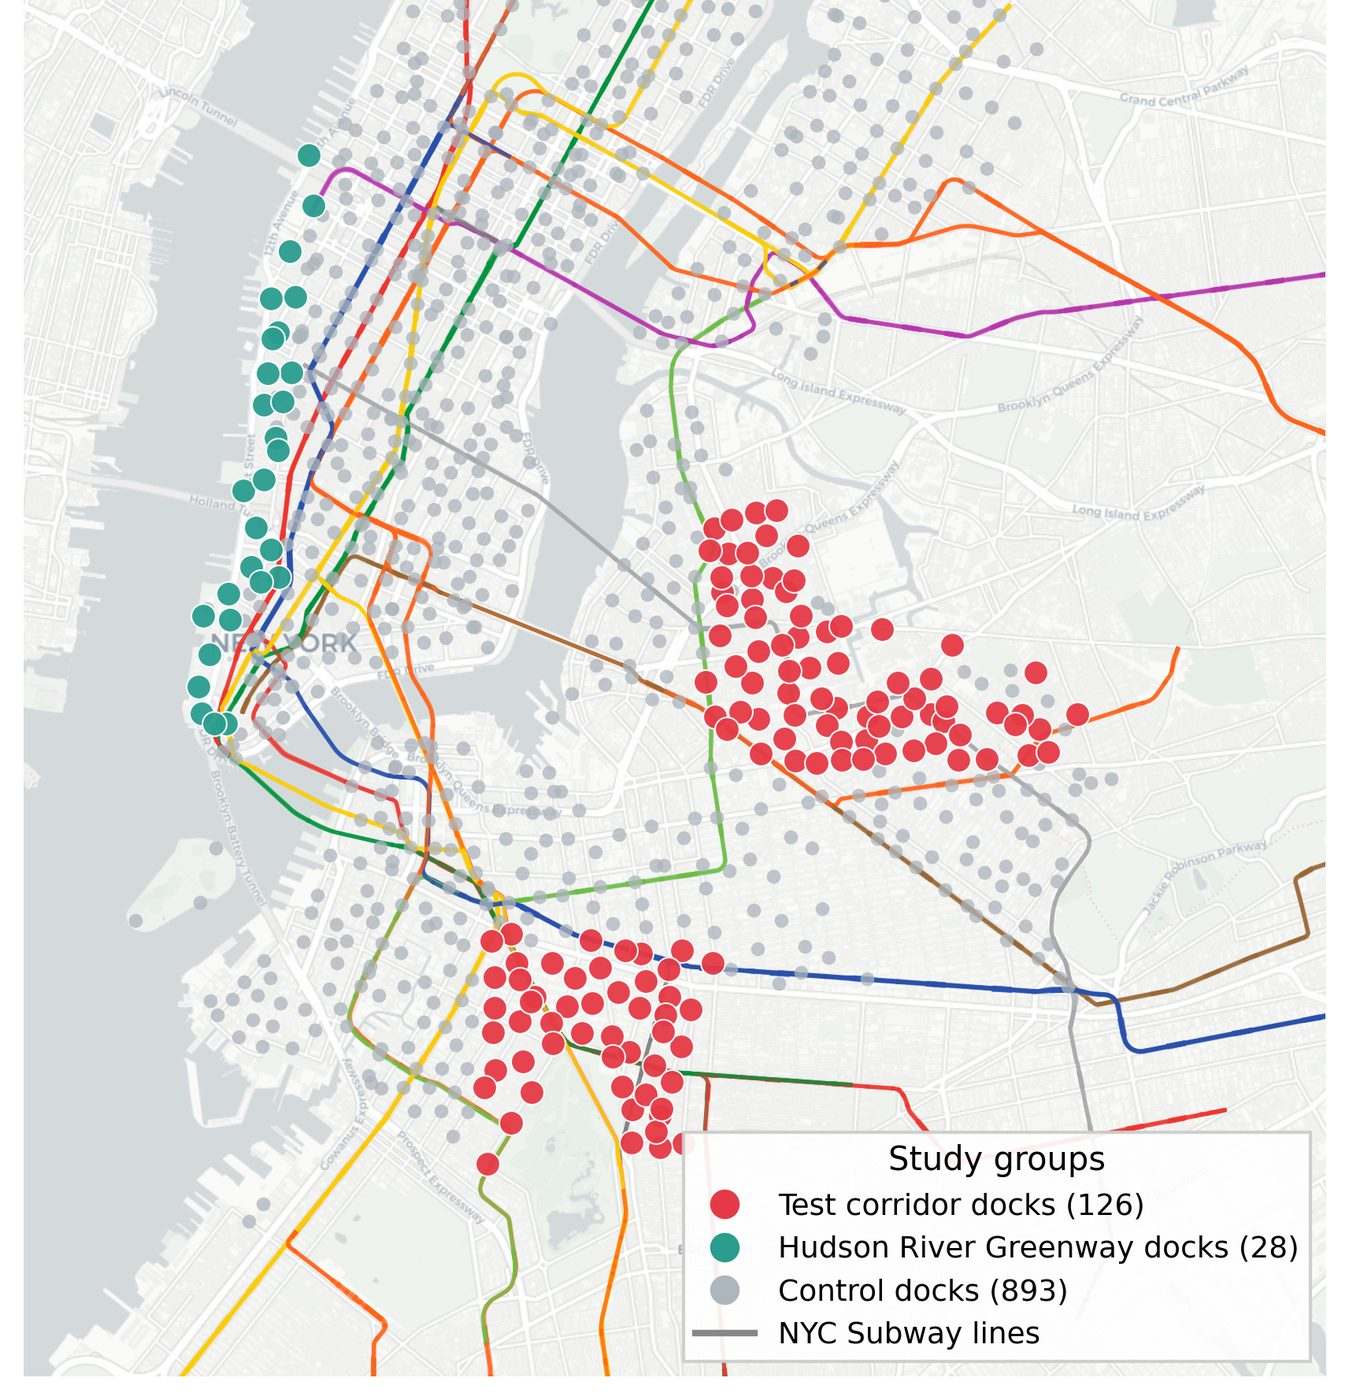
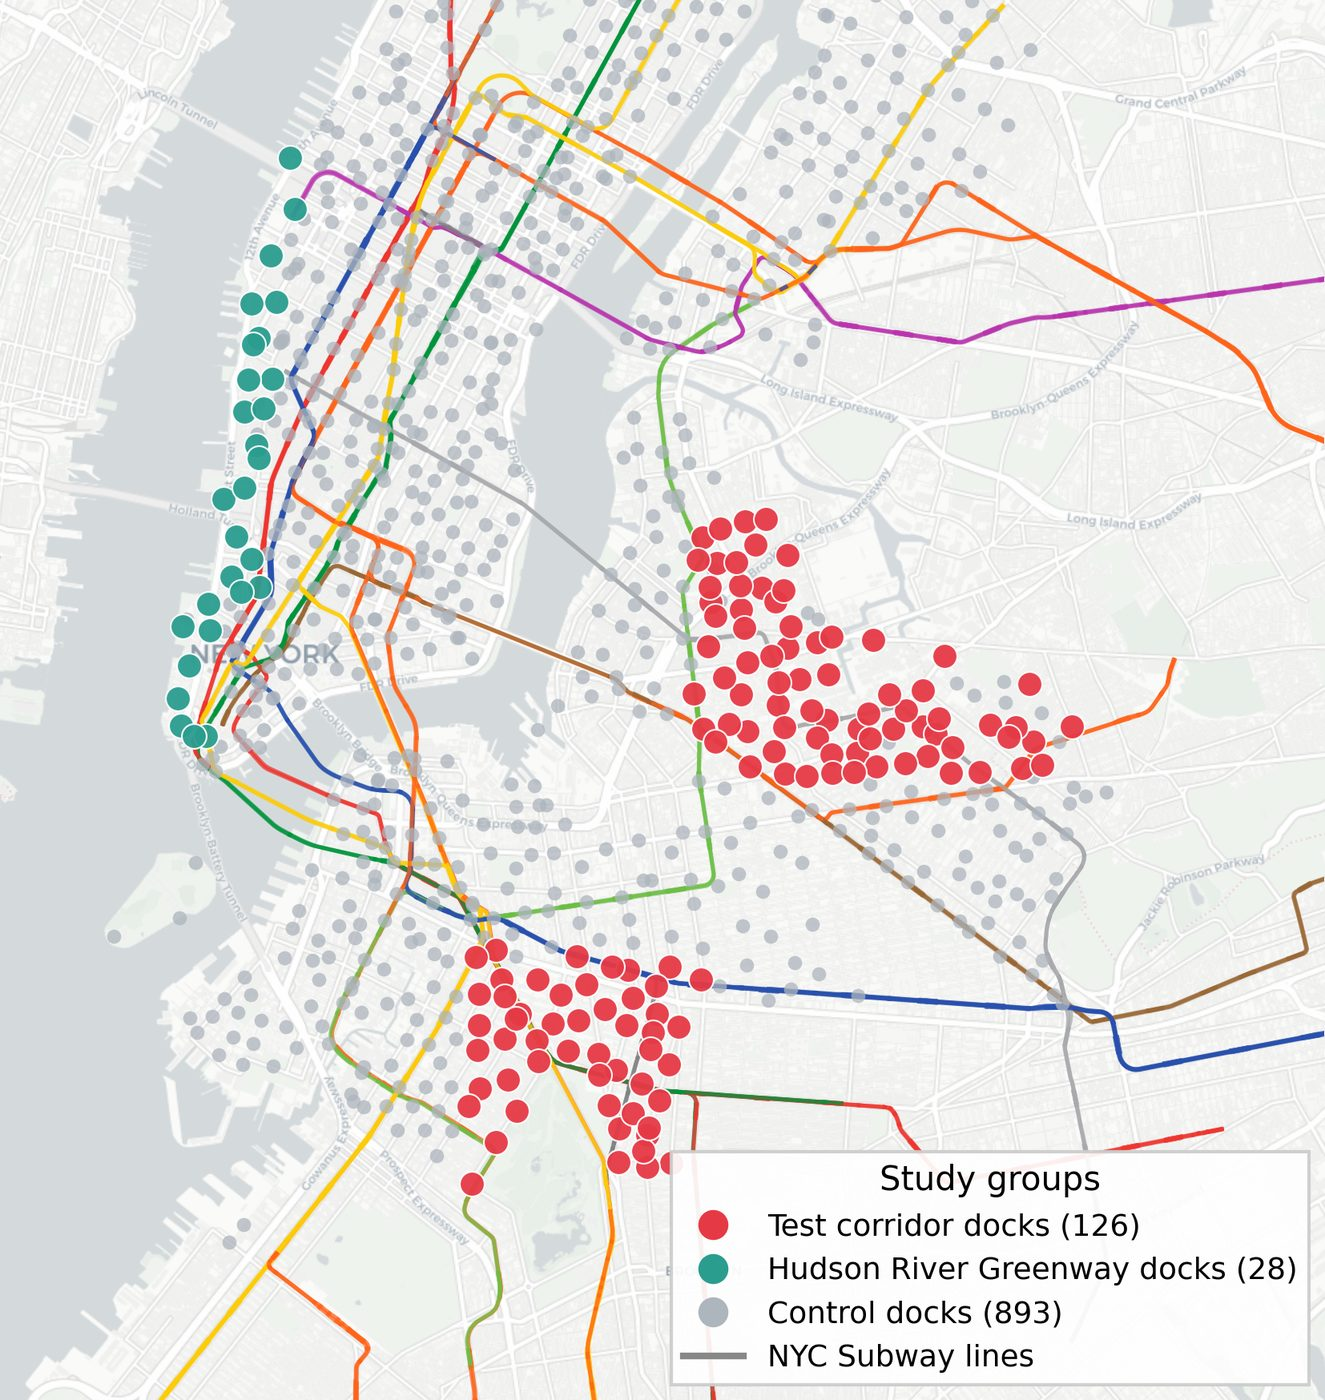
Add project figures: sandwich map, farm-rail map, thesis chart
- Sandwich map image links to the live map
- Thesis chart with relabeled axis and legend, title also shown full screen
- Farm and rail figure; updated Citi Bike image
- Trim captions; lightbox supports an optional full-screen title

diff --git a/index.html b/index.html
@@ -95,6 +95,7 @@
     .project figure img { display: block; width: 100%; height: auto; border: 1px solid var(--rule); }
     .project figcaption { margin-top: 0.5rem; font-size: 0.875rem; color: var(--muted); }
     .project figure a { cursor: zoom-in; }
+    .project figure a:not([data-lightbox]) { cursor: pointer; }
 
     /* Full-screen image pop-out */
     .lightbox {
@@ -104,10 +105,15 @@
       display: none; align-items: center; justify-content: center;
       cursor: zoom-out;
     }
-    .lightbox[open] { display: flex; }
+    .lightbox[open] { display: flex; flex-direction: column; gap: 0.875rem; }
+    .lightbox-caption {
+      margin: 0; max-width: 48rem; text-align: center;
+      color: #fff; font-size: 1.125rem; font-weight: 500; line-height: 1.35;
+    }
+    .lightbox-caption[hidden] { display: none; }
     .lightbox::backdrop { background: rgba(10, 18, 30, 0.88); }
     .lightbox img {
-      max-width: 100%; max-height: 100%; width: auto; height: auto;
+      max-width: 100%; max-height: 100%; min-height: 0; width: auto; height: auto;
       object-fit: contain; background: #fff;
       box-shadow: 0 8px 40px rgba(0, 0, 0, 0.5);
     }
@@ -142,9 +148,9 @@
             Cali, Colombia, July 2026
             <figure>
               <a href="assets/citi-bike-study-groups-map.jpg" data-lightbox target="_blank" rel="noopener noreferrer">
-                <img src="assets/citi-bike-study-groups-map.jpg" width="1349" height="1400" loading="lazy" alt="Map of New York City Citi Bike docks by study group: test corridor docks in red across central Brooklyn, Hudson River Greenway docks in teal along west Manhattan, and control docks in grey elsewhere, with subway lines overlaid.">
+                <img src="assets/citi-bike-study-groups-map.jpg" width="1325" height="1400" loading="lazy" alt="Map of New York City Citi Bike docks by study group: test corridor docks in red across central Brooklyn, Hudson River Greenway docks in teal along west Manhattan, and control docks in grey elsewhere, with subway lines overlaid.">
               </a>
-              <figcaption>Citi Bike docks by study group, with NYC subway lines. Click to enlarge.</figcaption>
+              <figcaption>Citi Bike docks by study group, with NYC subway lines.</figcaption>
             </figure>
           </div>
           <div>
@@ -170,6 +176,12 @@
           <div class="meta">
             <span class="where">NYC Open Data Week</span>
             Workshop, March 2026
+            <figure>
+              <a href="farm-map/" target="_blank" rel="noopener noreferrer">
+                <img src="assets/farm-rail-map.jpg" width="960" height="720" loading="lazy" alt="Map of the New York City region with Metro-North lines in blue running north, LIRR lines in red running east across Long Island, food-insecure NYC neighborhoods outlined in orange, and farms shown as dots across New York, New Jersey, Connecticut and Pennsylvania. Opens the interactive map.">
+              </a>
+              <figcaption>Metro-North and LIRR lines with regional farms.</figcaption>
+            </figure>
           </div>
           <div>
             <h2>Feeding New York: the hidden burden on the South Bronx</h2>
@@ -186,6 +198,11 @@
           <div class="meta">
             <span class="where">NYC Open Data Week</span>
             Workshop, March 2025
+            <figure>
+              <a href="https://www.iconicsandwiches.com/" target="_blank" rel="noopener noreferrer" aria-label="Open the live sandwich map">
+                <img src="assets/iconic-sandwiches-map.jpg" width="1020" height="1030" loading="lazy" alt="Google map of Lower Manhattan and Williamsburg with photos of iconic sandwiches placed at each restaurant's location, clustered around the East Village, Lower East Side and SoHo.">
+              </a>
+            </figure>
           </div>
           <div>
             <h2>Mapping iconic NYC sandwiches</h2>
@@ -204,6 +221,12 @@
           <div class="meta">
             <span class="where">Levy Economics Institute of Bard College</span>
             Master's thesis, May 2024
+            <figure>
+              <a href="assets/thesis-conditional-means.png" data-lightbox data-caption="Conditional Means by Gender, Parenthood, and Public Transit Usage" target="_blank" rel="noopener noreferrer">
+                <img src="assets/thesis-conditional-means.png" width="606" height="504" loading="lazy" alt="Bar chart of daily leisure time in minutes for car users versus public transit users. Men: about 157 car, 139 transit. Women: about 129 car, 101 transit. Fathers: about 86 car, 84 transit. Mothers: about 60 car, 50 transit.">
+              </a>
+              <figcaption>Conditional Means by Gender, Parenthood, and Public Transit Usage</figcaption>
+            </figure>
           </div>
           <div>
             <h2>In transit: how public transportation affects the gender leisure gap</h2>
@@ -228,6 +251,7 @@
 
   <dialog class="lightbox" aria-label="Enlarged image">
     <button type="button" class="lightbox-close" aria-label="Close">&times;</button>
+    <p class="lightbox-caption" hidden></p>
     <img alt="">
   </dialog>
   <script>
@@ -235,12 +259,16 @@
       var box = document.querySelector('.lightbox');
       if (!box || typeof box.showModal !== 'function') return;
       var big = box.querySelector('img');
+      var cap = box.querySelector('.lightbox-caption');
       document.querySelectorAll('a[data-lightbox]').forEach(function (a) {
         a.addEventListener('click', function (e) {
           e.preventDefault();
           var img = a.querySelector('img');
           big.src = a.href;
           big.alt = img ? img.alt : '';
+          // Optional title shown only in the full-screen view
+          cap.textContent = a.dataset.caption || '';
+          cap.hidden = !a.dataset.caption;
           box.showModal();
         });
       });
